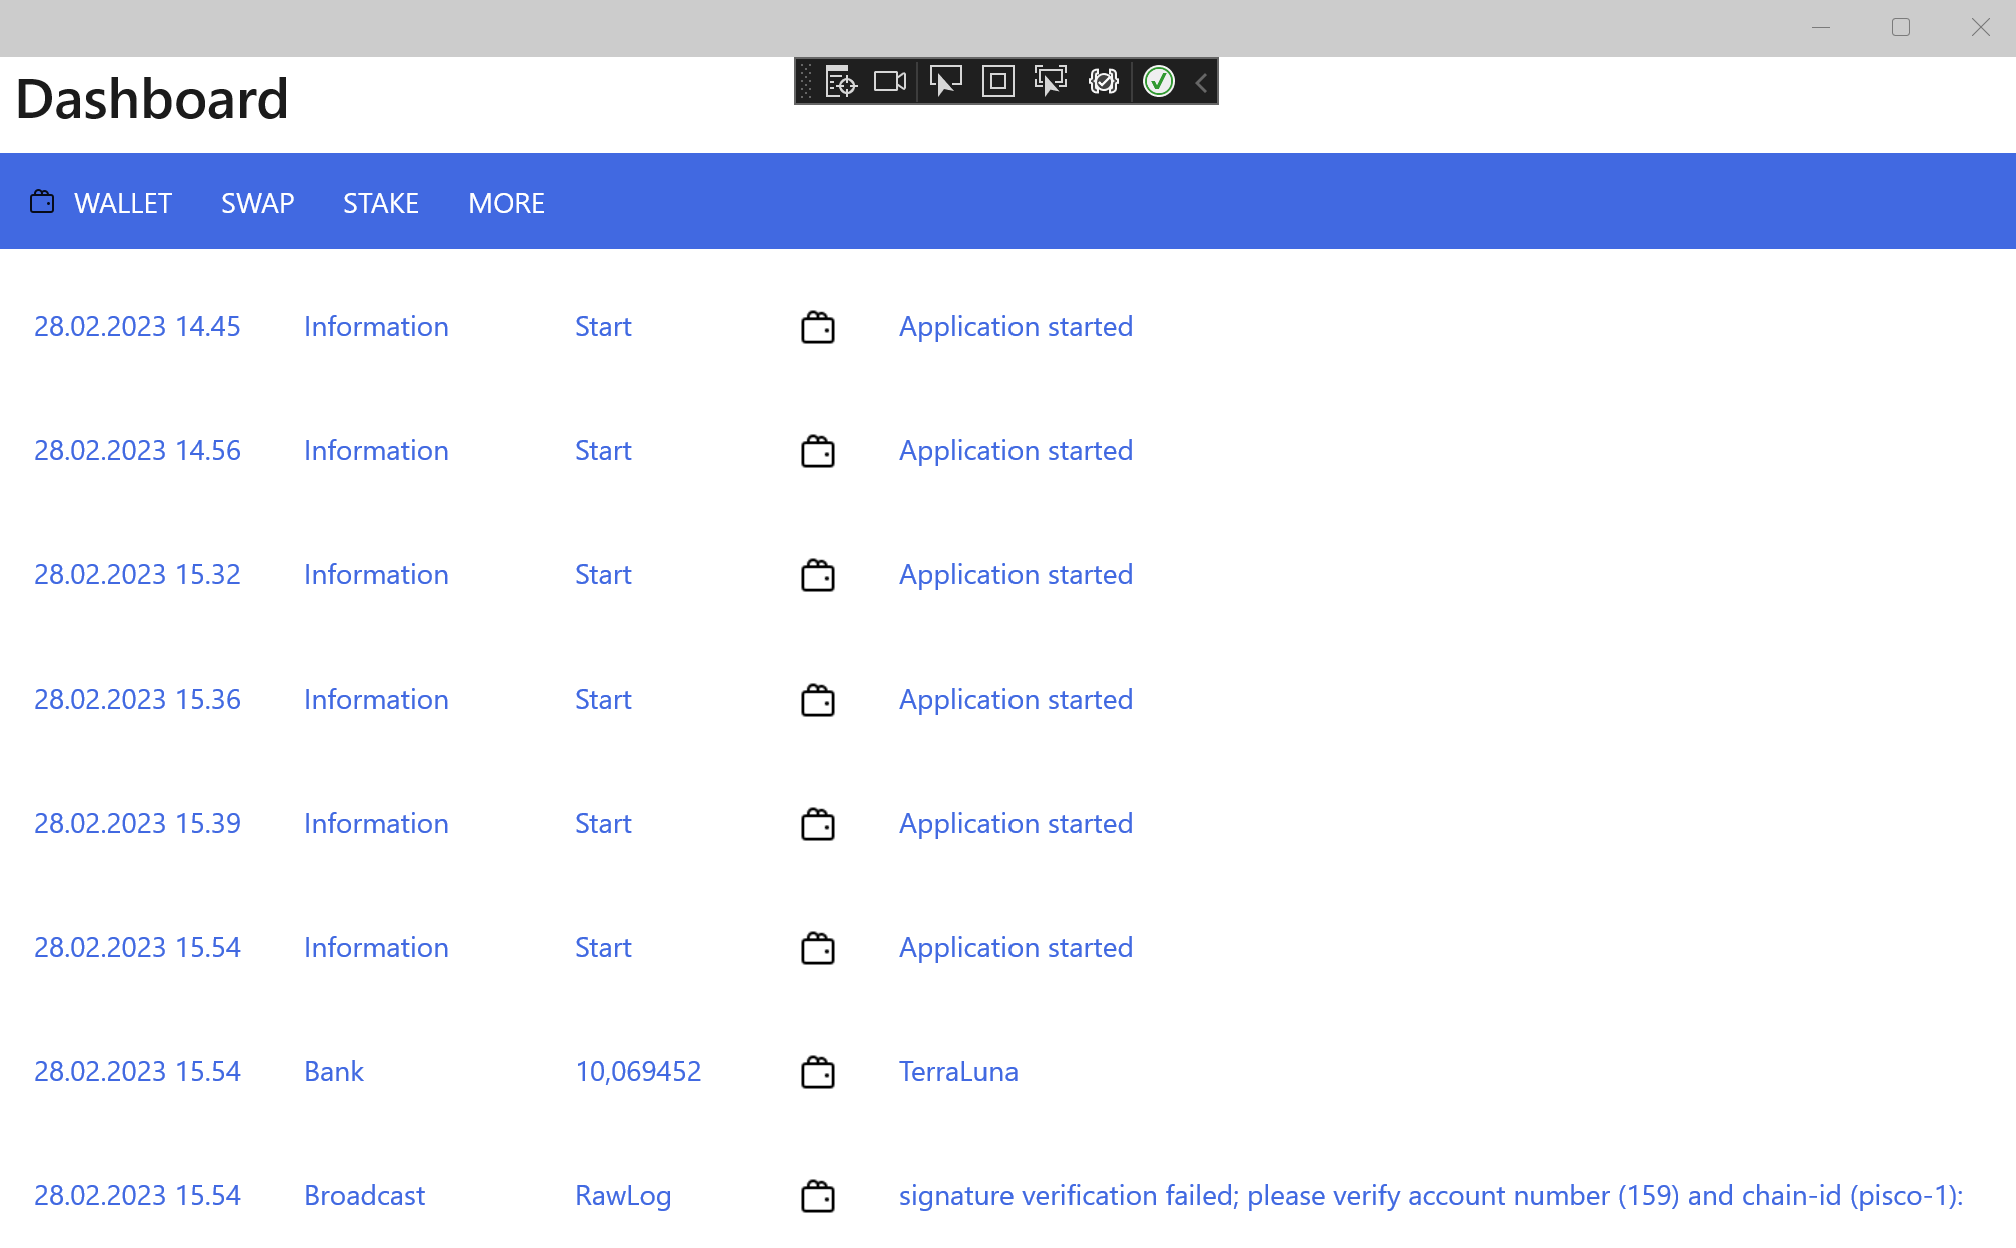
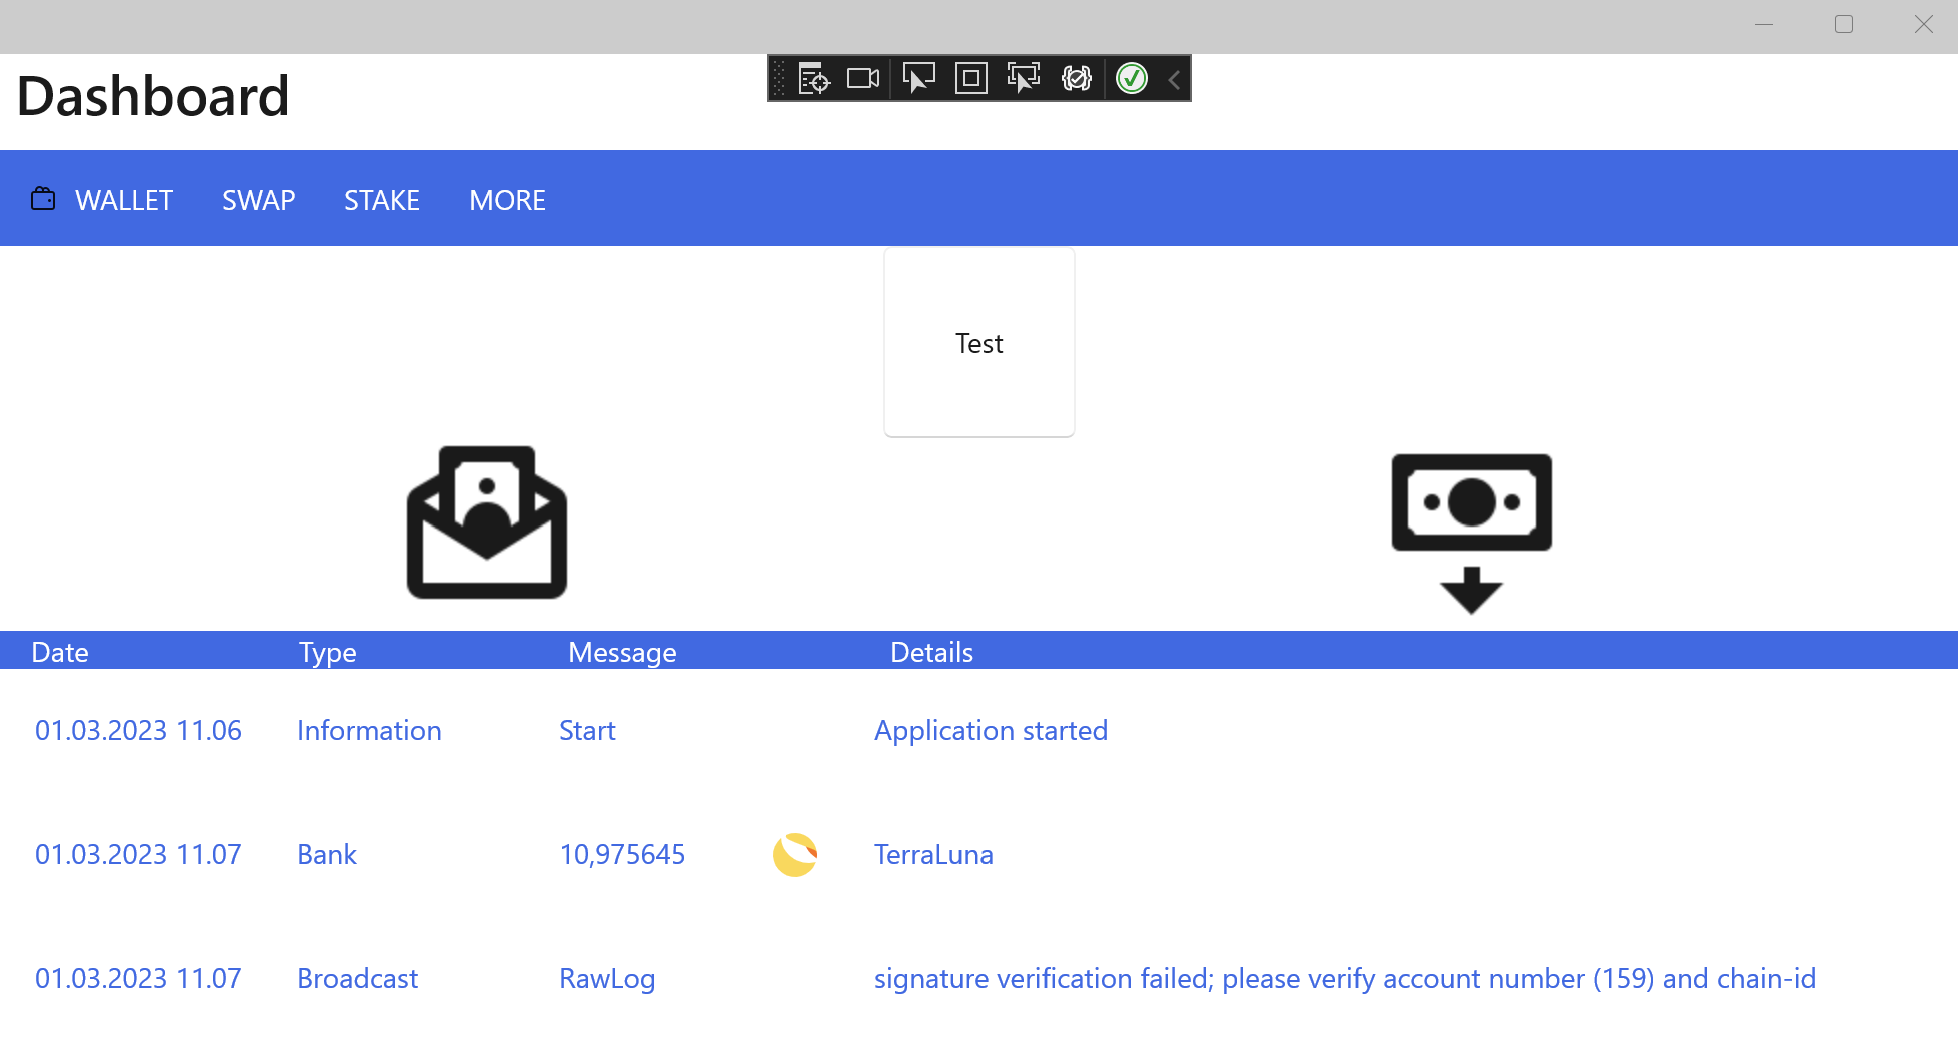
layout improvements

diff --git a/TerraSharp.Maui.Example/Pages/MainPage.xaml b/TerraSharp.Maui.Example/Pages/MainPage.xaml
@@ -19,14 +19,21 @@
                    Color="{DynamicResource  PrimaryColor}" />-->
             <Button
                 x:Name="CounterBtn"
-                Text="Click me"
+                Text="Test"
                 SemanticProperties.Hint="Counts the number of times you click"
                 Clicked="OnCounterClicked"
-                HorizontalOptions="Center" />
+                HorizontalOptions="Center"  WidthRequest="96" HeightRequest="96"/>
+
+            <Grid ColumnDefinitions="*,*"  >
+
+                <Image Grid.Column="0" Source="icons8transfertdargent96.png"  WidthRequest="96" HeightRequest="96" ></Image>
+                <Image Grid.Column="1" Source="icons8demandedargent96.png"  WidthRequest="96" HeightRequest="96"></Image>
+
+            </Grid>
 
             <CollectionView x:Name="collectionView" 
                         ItemsSource="{Binding Logs}" 
-                        SelectionMode="Single">
+                        SelectionMode="Single" >
                 <CollectionView.Header>
                     <Grid ColumnDefinitions=".25*,.25*, .15*, .15*,*" Padding="18,0,0,0" BackgroundColor="{DynamicResource  PrimaryColor}">
                         <Label Text="Date" Grid.Column="0" HorizontalTextAlignment="Start" TextColor="{DynamicResource  TextColor}"/>
@@ -37,7 +44,7 @@
                     </Grid>
                 </CollectionView.Header>
                 <CollectionView.ItemTemplate>
-                    <DataTemplate>
+                    <DataTemplate >
 
                         <SwipeView>
 
@@ -49,7 +56,7 @@
                                            CommandParameter="{Binding .}"/>
                                 </SwipeItems>
                             </SwipeView.RightItems>
-                            <Grid    >
+                            <Grid >
 
                                 <Frame BackgroundColor="Transparent" >
                                     <Frame.GestureRecognizers>
